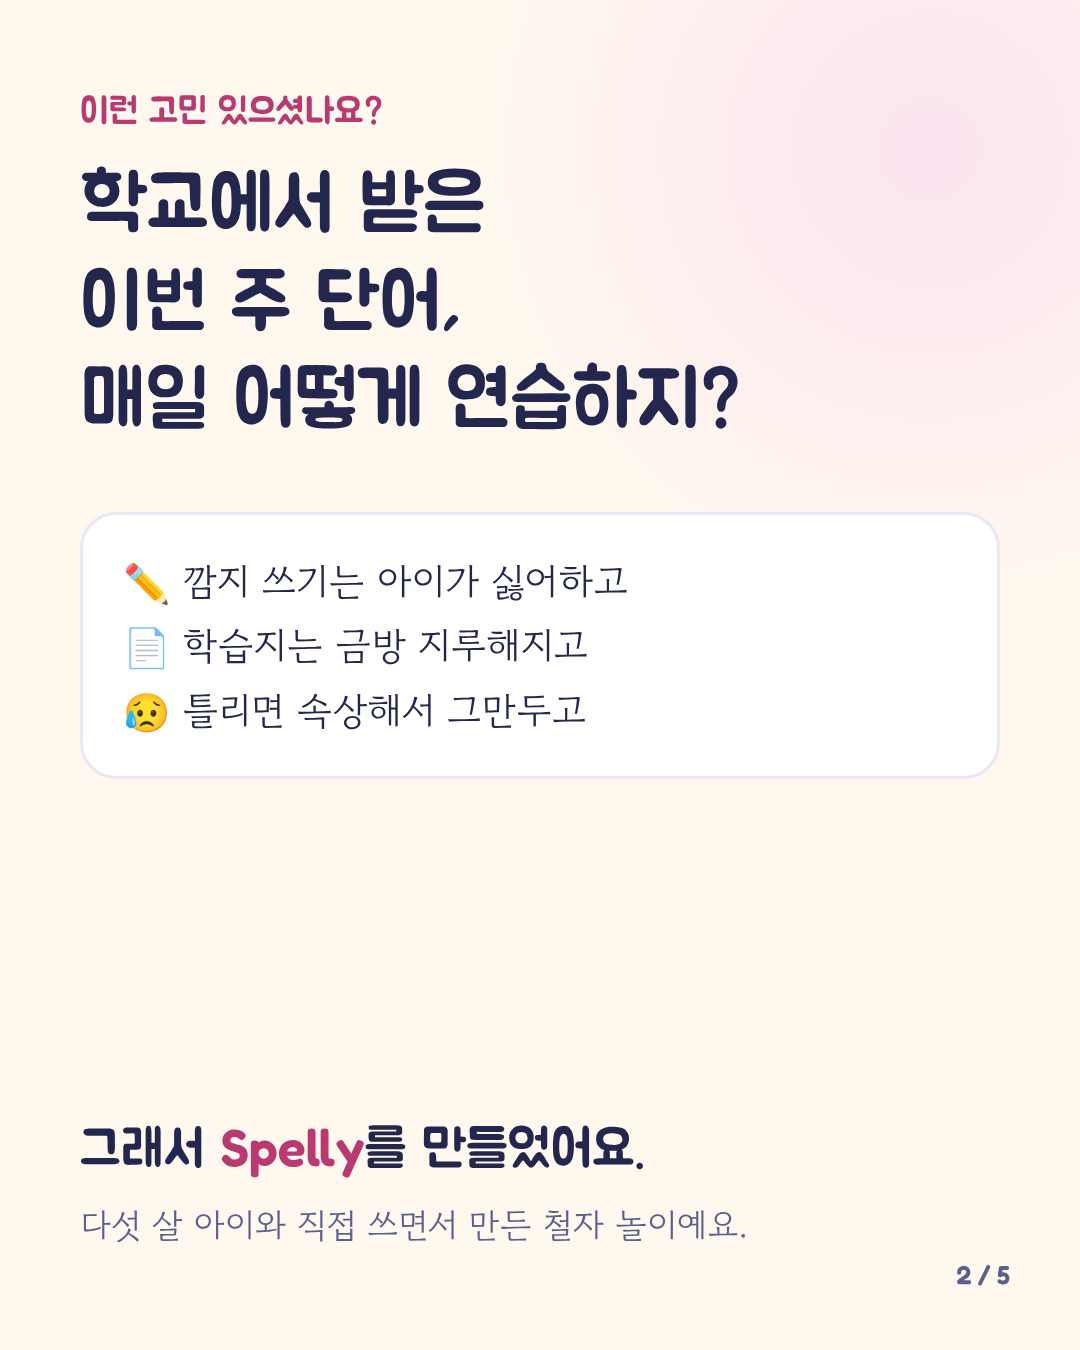
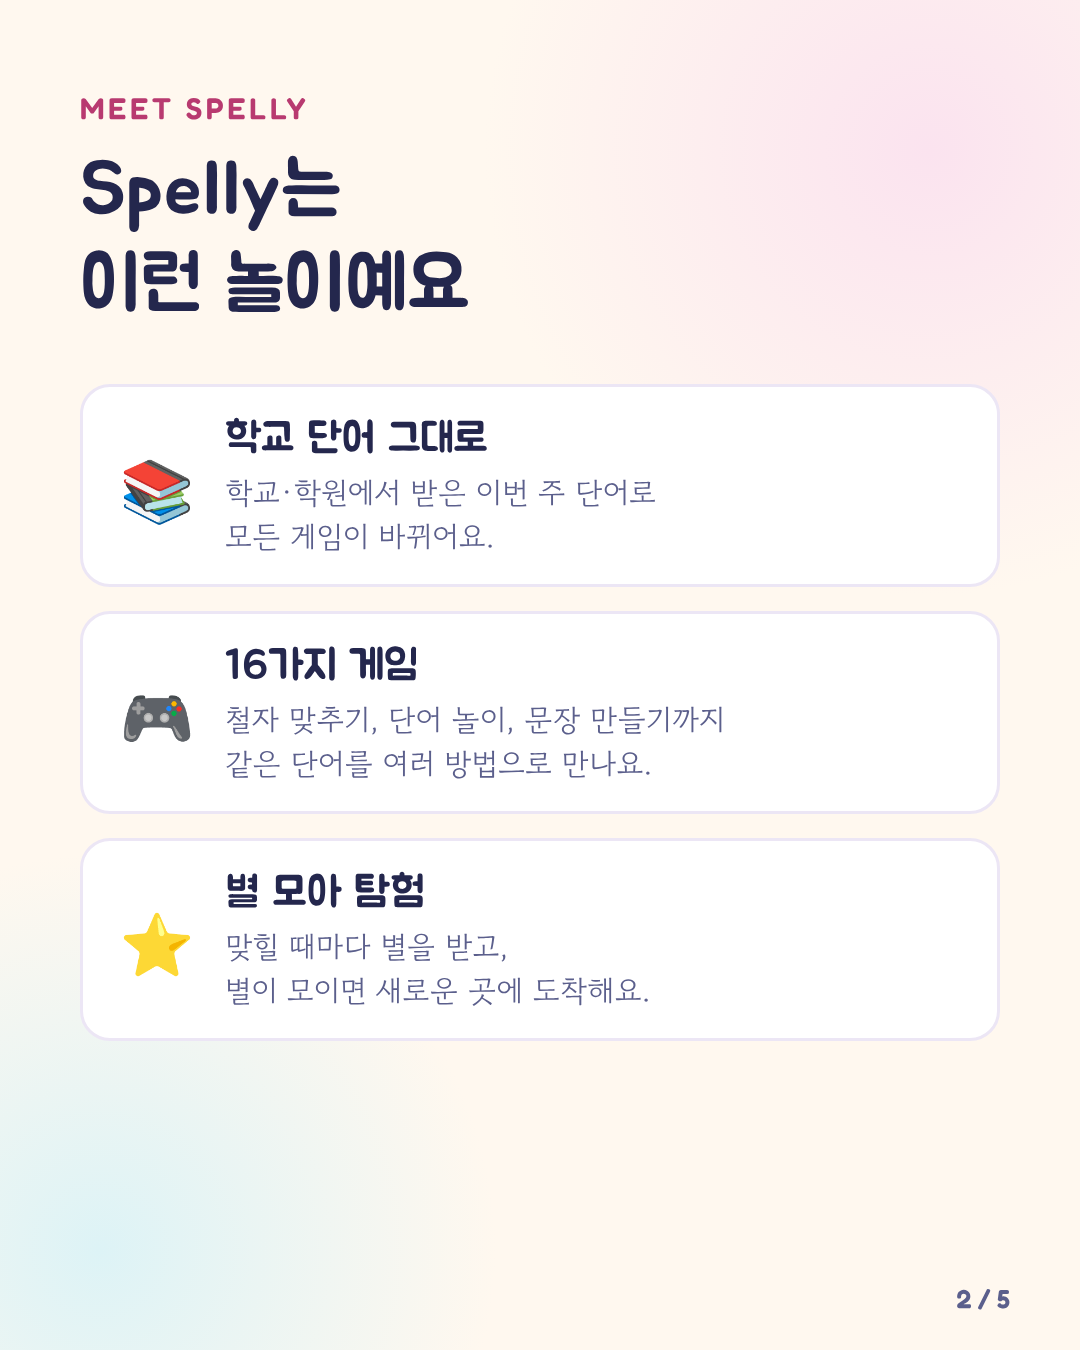
Redo the first Instagram post: new carousel and caption
Claude-Session: https://claude.ai/code/session_01J7Vn6w1dVTxZNK941eNd2P

diff --git a/instagram/slides.html b/instagram/slides.html
@@ -15,69 +15,78 @@ h1,h2,.d{font-family:"Jua",sans-serif;font-weight:400;margin:0;line-height:1.25}
 em{font-style:normal;color:var(--pink);background:linear-gradient(transparent 62%,#FFE6A8 62%)}
 .device{background:#1F2240;border-radius:40px;padding:18px;box-shadow:0 30px 60px rgba(39,43,94,.25)}
 .device img{display:block;width:100%;border-radius:26px}
-.page{position:absolute;right:70px;bottom:60px;font-size:26px;color:var(--soft)}
+.page{position:absolute;right:70px;bottom:36px;font-size:26px;color:var(--soft)}
 .card{background:#fff;border:3px solid var(--line);border-radius:36px;padding:34px 40px}
 .num{width:64px;height:64px;border-radius:50%;background:var(--sun);box-shadow:0 4px 0 var(--sunl);display:grid;place-items:center;font-size:32px;flex:none}
 .chip{display:inline-block;background:#fff;border:2px solid var(--line);border-radius:999px;padding:6px 18px;font-size:26px;margin:0 8px 10px 0}
-</style></head><body>
-
+</style></head><body><style>
+.world{border-radius:32px;padding:26px;display:flex;flex-direction:column;align-items:center;text-align:center;color:#fff}
+.world b{font-family:"Jua";font-weight:400;font-size:40px;margin-top:8px}
+.world small{font-size:26px;opacity:.9;margin-top:4px}
+.feat{display:flex;gap:28px;align-items:center;background:#fff;border:3px solid var(--line);border-radius:30px;padding:26px 34px}
+.feat .i{font-size:60px;width:80px;text-align:center;flex:none}
+.feat .h{font-family:"Jua";font-size:42px}.feat .p{font-size:30px;color:var(--soft);margin-top:4px}
+</style>
 <!-- 1 cover -->
-<div class="s"><div class="blob1"></div><div class="blob2"></div><div class="in">
+<div class="s" style="background:#FFD75E"><div style="position:absolute;width:900px;height:900px;border-radius:50%;right:-320px;top:-280px;background:#FFE69A"></div>
+<div style="position:absolute;width:600px;height:600px;border-radius:50%;left:-260px;bottom:-200px;background:#FFC94A"></div>
+<div class="in">
  <div class="logo en"><img src="../icons/icon-512.png">Spelly</div>
- <div style="margin-top:70px"><span class="tag">🌟 5~7세 아이를 위한 영어 철자 놀이</span></div>
- <h1 style="font-size:96px;margin-top:30px">매일 10분,<br>놀이로 익히는<br><em>영어 철자</em></h1>
- <div class="device" style="margin-top:auto;width:720px;align-self:center;transform:rotate(-2deg)"><img src="../assets/shot-home.jpg"></div>
- <div style="display:flex;justify-content:space-between;margin:-120px 0 0;position:relative;z-index:2;align-items:flex-end">
-  <img src="../assets/guide-space.svg" width="150"><img src="../assets/guide-princess.svg" width="150" style="margin-bottom:-10px"><img src="../assets/guide-robot.svg" width="150" style="margin-bottom:-4px"><img src="../assets/guide-unicorn.svg" width="150">
- </div>
+ <h1 style="font-size:112px;margin-top:80px">이번 주<br>영어 단어,<br>이제 <span style="color:#B83A70">놀이로</span><br>외워요</h1>
+ <div style="font-size:38px;margin-top:30px;color:#4A3B12">5~7세 영어 철자 놀이</div>
+ <div class="device" style="position:absolute;right:-200px;bottom:240px;width:700px;transform:rotate(-8deg)"><img src="../assets/shot-game.jpg"></div>
+ <div style="position:absolute;left:60px;right:60px;bottom:50px;display:flex;justify-content:space-between;align-items:flex-end"><img src="../assets/guide-space.svg" width="170" style=""><img src="../assets/guide-princess.svg" width="170" style=""><img src="../assets/guide-robot.svg" width="170" style=""><img src="../assets/guide-unicorn.svg" width="170" style=""></div>
 </div></div>
 
-<!-- 2 problem -->
-<div class="s"><div class="blob1"></div><div class="in">
- <div class="d" style="font-size:36px;color:var(--pink)">이런 고민 있으셨나요?</div>
- <h2 style="font-size:78px;margin:24px 0 60px">학교에서 받은<br>이번 주 단어,<br>매일 어떻게 연습하지?</h2>
- <div class="card" style="font-size:38px;line-height:1.7">
-  ✏ 깜지 쓰기는 아이가 싫어하고<br>📄 학습지는 금방 지루해지고<br>😥 틀리면 속상해서 그만두고
+<!-- 2 what -->
+<div class="s"><div class="blob1"></div><div class="blob2"></div><div class="in">
+ <div class="d en" style="font-size:30px;letter-spacing:.12em;color:var(--pink)">MEET SPELLY</div>
+ <h2 style="font-size:76px;margin:16px 0 50px">Spelly는<br>이런 놀이예요</h2>
+ <div style="display:flex;flex-direction:column;gap:24px">
+  <div class="feat"><div class="i">📚</div><div><div class="h">학교 단어 그대로</div><div class="p">학교·학원에서 받은 이번 주 단어로<br>모든 게임이 바뀌어요.</div></div></div>
+  <div class="feat"><div class="i">🎮</div><div><div class="h">16가지 게임</div><div class="p">철자 맞추기, 단어 놀이, 문장 만들기까지<br>같은 단어를 여러 방법으로 만나요.</div></div></div>
+  <div class="feat"><div class="i">⭐</div><div><div class="h">별 모아 탐험</div><div class="p">맞힐 때마다 별을 받고,<br>별이 모이면 새로운 곳에 도착해요.</div></div></div>
  </div>
- <div class="d" style="font-size:52px;margin-top:auto;line-height:1.4">그래서 <span class="en" style="color:var(--pink)">Spelly</span>를 만들었어요.<br><span style="font-family:'Gowun Dodum';font-size:34px;color:var(--soft)">다섯 살 아이와 직접 쓰면서 만든 철자 놀이예요.</span></div>
  <div class="page en">2 / 5</div>
 </div></div>
 
-<!-- 3 how -->
-<div class="s"><div class="blob2"></div><div class="in">
- <div class="d en" style="font-size:30px;letter-spacing:.12em;color:var(--pink)">HOW IT WORKS</div>
- <h2 style="font-size:76px;margin:16px 0 56px">보호자는<br>단어만 넣어 주세요</h2>
- <div style="display:flex;flex-direction:column;gap:30px">
-  <div class="card" style="display:flex;gap:30px;align-items:flex-start"><div class="num en">1</div><div><div class="d" style="font-size:44px">이번 주 단어 넣기</div><div style="font-size:31px;color:var(--soft);margin-top:8px">단어 10개 + 짧은 문장 2개.<br>모든 게임이 그 단어로 바뀌어요.</div></div></div>
-  <div class="card" style="display:flex;gap:30px;align-items:flex-start"><div class="num en">2</div><div><div class="d" style="font-size:44px">16가지 게임으로 연습</div><div style="font-size:31px;color:var(--soft);margin-top:8px">철자 맞추기 → 단어 놀이 → 문장 만들기.<br>모든 단어와 철자를 소리로 읽어줘요.</div></div></div>
-  <div class="card" style="display:flex;gap:30px;align-items:flex-start"><div class="num en">3</div><div><div class="d" style="font-size:44px">별 모아 탐험하기</div><div style="font-size:31px;color:var(--soft);margin-top:8px">맞힐 때마다 별 하나.<br>별이 모이면 새로운 행성에 도착해요.</div></div></div>
+<!-- 3 alone -->
+<div class="s"><div class="blob1"></div><div class="in">
+ <div class="d en" style="font-size:30px;letter-spacing:.12em;color:var(--pink)">ON THEIR OWN</div>
+ <h2 style="font-size:76px;margin:16px 0 24px">아이 혼자서도<br>할 수 있어요</h2>
+ <div style="font-size:34px;color:var(--soft);line-height:1.6">영어를 읽지 못해도 괜찮아요.<br>Spelly가 옆에서 함께해요.</div>
+ <div class="device" style="margin:40px auto 0;width:820px;transform:rotate(1.5deg)"><img src="../assets/shot-game.jpg"></div>
+ <div style="display:grid;grid-template-columns:repeat(3,1fr);gap:18px;margin:auto 0 30px;text-align:center">
+  <div class="card" style="padding:24px 10px"><div style="font-size:56px">🔊</div><div class="d" style="font-size:32px;margin-top:6px">소리로 읽어 줘요</div></div>
+  <div class="card" style="padding:24px 10px"><div style="font-size:56px">💡</div><div class="d" style="font-size:32px;margin-top:6px">틀리면 힌트</div></div>
+  <div class="card" style="padding:24px 10px"><div style="font-size:56px">🎉</div><div class="d" style="font-size:32px;margin-top:6px">맞히면 칭찬</div></div>
  </div>
  <div class="page en">3 / 5</div>
 </div></div>
 
-<!-- 4 games + worlds -->
-<div class="s"><div class="blob1"></div><div class="in">
- <div class="d en" style="font-size:30px;letter-spacing:.12em;color:var(--pink)">16 GAMES · 4 WORLDS</div>
- <h2 style="font-size:72px;margin:16px 0 40px">같은 단어를<br>여러 방법으로 만나요</h2>
- <div class="device" style="transform:rotate(1.5deg)"><img src="../assets/shot-game.jpg"></div>
- <div class="en" style="margin-top:44px;font-weight:500">
-  <span class="chip">Letter Rocket</span><span class="chip">Spelling Bee</span><span class="chip">Vowel Hunt</span><span class="chip">Peek &amp; Spell</span><span class="chip">Trace &amp; Write</span><span class="chip">Memory Match</span><span class="chip">Sentence Ship</span><span class="chip">+9</span>
- </div>
- <div style="display:grid;grid-template-columns:repeat(4,1fr);gap:16px;margin-top:auto;text-align:center;font-size:27px">
-  <div><img src="../assets/guide-space.svg" width="110" style="display:block;margin:0 auto">우주 탐험</div>
-  <div><img src="../assets/guide-princess.svg" width="110" style="display:block;margin:0 auto">공주 왕국</div>
-  <div><img src="../assets/guide-robot.svg" width="110" style="display:block;margin:0 auto">로봇 시티</div>
-  <div><img src="../assets/guide-unicorn.svg" width="110" style="display:block;margin:0 auto">유니콘 원더랜드</div>
+<!-- 4 worlds -->
+<div class="s"><div class="blob2"></div><div class="in">
+ <div class="d en" style="font-size:30px;letter-spacing:.12em;color:var(--pink)">4 WORLDS</div>
+ <h2 style="font-size:76px;margin:16px 0 20px">아이가 고르는<br>4가지 세상</h2>
+ <div style="font-size:34px;color:var(--soft)">좋아하는 친구와 함께라서 매일 하고 싶어져요.</div>
+ <div style="display:grid;grid-template-columns:1fr 1fr;gap:24px;margin:auto 0 30px">
+  <div class="world" style="background:linear-gradient(160deg,#1B1E4B,#3B2F7E)"><img src="../assets/guide-space.svg" width="190" style=""><b>우주 탐험</b><small>친구 코코 · ⭐ 별</small></div>
+  <div class="world" style="background:linear-gradient(160deg,#F49AC1,#C9679A)"><img src="../assets/guide-princess.svg" width="190" style=""><b>공주 왕국</b><small>친구 로지 · 💎 보석</small></div>
+  <div class="world" style="background:linear-gradient(160deg,#3BB7C4,#2A7E9B)"><img src="../assets/guide-robot.svg" width="190" style=""><b>로봇 시티</b><small>친구 볼트 · ⚡ 에너지</small></div>
+  <div class="world" style="background:linear-gradient(160deg,#B79BFF,#8C74E0)"><img src="../assets/guide-unicorn.svg" width="190" style=""><b>유니콘 원더랜드</b><small>친구 루나 · 🔷 크리스털</small></div>
  </div>
  <div class="page en">4 / 5</div>
 </div></div>
 
 <!-- 5 CTA -->
-<div class="s" style="background:var(--navy);color:#fff"><div style="position:absolute;inset:0;background:linear-gradient(160deg,#1B1E4B,#3B2F7E)"></div><div style="position:absolute;left:90px;top:120px;width:10px;height:10px;border-radius:50%;background:#FFD75E"></div><div style="position:absolute;left:950px;top:200px;width:14px;height:14px;border-radius:50%;background:#fff"></div><div style="position:absolute;left:160px;top:700px;width:8px;height:8px;border-radius:50%;background:#fff"></div><div style="position:absolute;left:980px;top:620px;width:10px;height:10px;border-radius:50%;background:#FFD75E"></div><div style="position:absolute;left:60px;top:1000px;width:12px;height:12px;border-radius:50%;background:#fff"></div><div style="position:absolute;left:1000px;top:1050px;width:8px;height:8px;border-radius:50%;background:#fff"></div><div style="position:absolute;left:820px;top:90px;width:6px;height:6px;border-radius:50%;background:#fff"></div><div style="position:absolute;left:260px;top:380px;width:6px;height:6px;border-radius:50%;background:#FFD75E"></div><div style="position:absolute;right:-160px;bottom:-200px;width:520px;height:520px;border-radius:50%;background:#EF86AE;opacity:.35"></div><div style="position:absolute;left:-120px;top:420px;width:300px;height:300px;border-radius:50%;background:#5BCBD4;opacity:.3"></div><div class="in" style="align-items:center;text-align:center">
- <img src="../assets/guide-space.svg" width="260" style="margin-top:40px">
- <h2 style="font-size:84px;margin-top:30px">오늘의 첫 단어,<br>함께 시작해요</h2>
- <div style="font-size:36px;margin-top:30px;opacity:.9;line-height:1.6">✔ 설치 없이 브라우저에서 바로<br>✔ 틀려도 혼나지 않아요<br>✔ 형제자매 따로따로 기록</div>
+<div class="s" style="color:#fff"><div style="position:absolute;inset:0;background:linear-gradient(160deg,#1B1E4B,#3B2F7E)"></div>
+ <div style="position:absolute;right:-160px;bottom:-200px;width:520px;height:520px;border-radius:50%;background:#EF86AE;opacity:.35"></div>
+ <div style="position:absolute;left:-120px;top:420px;width:300px;height:300px;border-radius:50%;background:#5BCBD4;opacity:.3"></div>
+ <div class="in" style="align-items:center;text-align:center">
+ <img src="../assets/guide-space.svg" width="240" style="margin-top:30px">
+ <h2 style="font-size:84px;margin-top:30px">보호자는<br>단어만 붙여 넣으면<br>준비 끝</h2>
+ <div style="font-size:36px;margin-top:30px;opacity:.9;line-height:1.7">✔ 앱 설치 없이 브라우저에서 바로<br>✔ 태블릿·휴대폰 어디서나<br>✔ 아이마다 기록이 따로따로</div>
  <div class="en" style="margin-top:auto;background:var(--sun);color:var(--ink);border-radius:999px;padding:24px 56px;font-size:50px;box-shadow:0 6px 0 var(--sunl)">www.spelly.kr</div>
- <div style="font-size:30px;margin:26px 0 20px;opacity:.85">프로필 링크에서 바로 체험해 보세요 ✨</div>
+ <div style="font-size:30px;margin:26px 0 20px;opacity:.85">예시 단어로 지금 바로 체험해 보세요 ✨</div>
 </div></div>
 </body></html>

diff --git a/instagram/README.md b/instagram/README.md
@@ -18,42 +18,46 @@
 
 ## 첫 게시물 (캐러셀 5장, 1080×1350)
 
-`post1-1.png` ~ `post1-5.png` 순서대로 올려요. 이미지를 고치려면 `slides.html`을 수정한 뒤 `node render.mjs`를 실행하세요.
+`post1-1.png` ~ `post1-5.png` 순서대로 올려요. 이미지는 `node render.mjs slides.html post1`로 다시 만들어요.
 
-1. 표지: 매일 10분, 놀이로 익히는 영어 철자
-2. 고민: 이번 주 단어, 매일 어떻게 연습하지?
-3. 사용법: 단어 넣기 → 게임 → 별 모아 탐험
-4. 16가지 게임과 4가지 세상
-5. 마무리: www.spelly.kr
+1. 표지: 이번 주 영어 단어, 이제 놀이로 외워요
+2. Spelly는 이런 놀이예요: 학교 단어 그대로 · 16가지 게임 · 별 모아 탐험
+3. 아이 혼자서도 할 수 있어요: 소리로 읽어 줘요 · 틀리면 힌트 · 맞히면 칭찬
+4. 아이가 고르는 4가지 세상
+5. 보호자는 단어만 붙여 넣으면 준비 끝 · www.spelly.kr
 
 **캡션**
 
 ```
-안녕하세요, Spelly예요 👋
+이번 주 영어 단어, 이제 놀이로 외워요 🌟
 
-학교에서 받아 온 이번 주 영어 단어,
-매일 어떻게 연습하고 계세요?
+안녕하세요, Spelly예요!
+5~7세 아이를 위한 영어 철자 놀이를 소개할게요.
 
-깜지는 싫어하고, 학습지는 금방 지루해하고,
-틀리면 속상해서 그만두고…
-다섯 살 아이와 매일 씨름하다가 직접 만들었어요.
+📚 학교·학원에서 받은 이번 주 단어 그대로
+   단어 10개와 문장 2개를 넣으면 모든 게임이 그 단어로 바뀌어요.
 
-✏ 보호자는 이번 주 단어 10개와 문장 2개만 넣어 주세요
-🎮 16가지 게임이 모두 그 단어로 바뀌어요
-🔊 모든 단어와 철자를 소리로 읽어줘요
-⭐ 맞힐 때마다 별을 모아 새로운 행성으로 떠나요
-💛 틀려도 혼나지 않아요. 힌트를 받고 다시 도전해요
+🎮 16가지 게임
+   철자 맞추기 → 단어 놀이 → 문장 만들기까지,
+   같은 단어를 여러 방법으로 만나며 자연스럽게 외워요.
 
-우주 탐험, 공주 왕국, 로봇 시티, 유니콘 원더랜드 중
-아이가 좋아하는 세상을 직접 골라요.
+🔊 아이 혼자서도
+   모든 단어와 철자를 소리로 읽어 주고,
+   틀리면 혼내는 대신 힌트를 줘서 다시 도전하게 해요.
 
+⭐ 별 모아 탐험
+   맞힐 때마다 별을 받고, 별이 모이면 새로운 곳에 도착해요.
+   우주 탐험 · 공주 왕국 · 로봇 시티 · 유니콘 원더랜드 중
+   아이가 좋아하는 세상을 직접 골라요.
+
+보호자는 이번 주 단어만 붙여 넣으면 준비 끝이에요.
 앱 설치 없이 태블릿·휴대폰 브라우저에서 바로 열려요.
-👉 프로필 링크(www.spelly.kr)에서 예시 단어로 바로 체험해 보세요!
 
-앞으로 Spelly 이야기와 집에서 영어 단어 연습하는 팁을 나눌게요.
-여러분은 아이와 단어 공부 어떻게 하고 계세요? 댓글로 알려 주세요 💬
+👉 프로필 링크(www.spelly.kr)에서 예시 단어로 지금 바로 체험해 보세요!
 
-#Spelly #스펠리 #영어철자 #영어단어 #파닉스 #유아영어 #엄마표영어 #초등영어 #영어놀이 #단어시험 #영어공부 #7세영어 #6세영어 #5세영어 #태블릿학습 #홈스쿨링 #스펠링 #영어단어외우기
+아이가 고를 세상은 어디일까요? 댓글로 알려 주세요 🚀👑🤖🦄
+
+#Spelly #스펠리 #영어철자 #영어단어 #단어시험 #파닉스 #유아영어 #엄마표영어 #초등영어 #영어놀이 #영어공부 #5세영어 #6세영어 #7세영어 #태블릿학습 #홈스쿨링 #스펠링 #영어단어외우기
 ```
 
 ## 두 번째 게시물: 보호자 할 일은 딱 1분 (캐러셀 5장)
